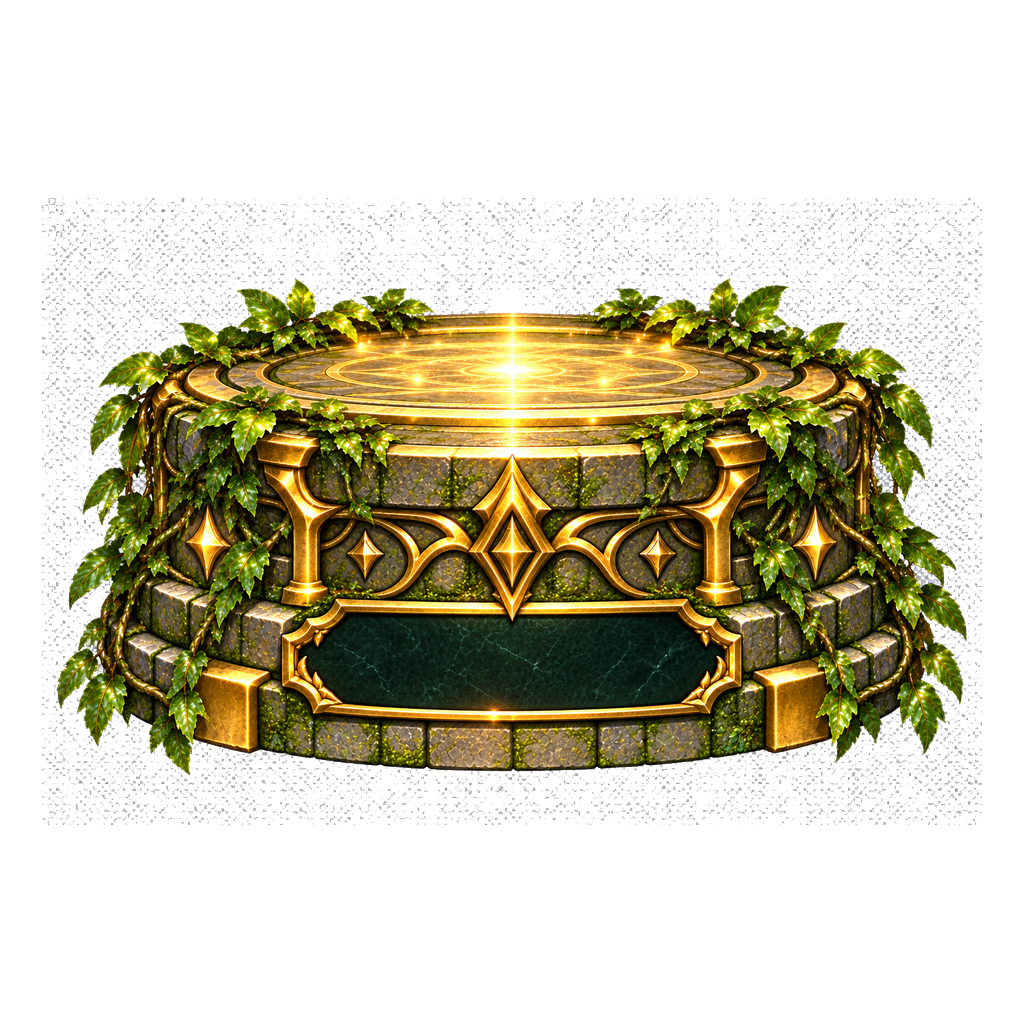
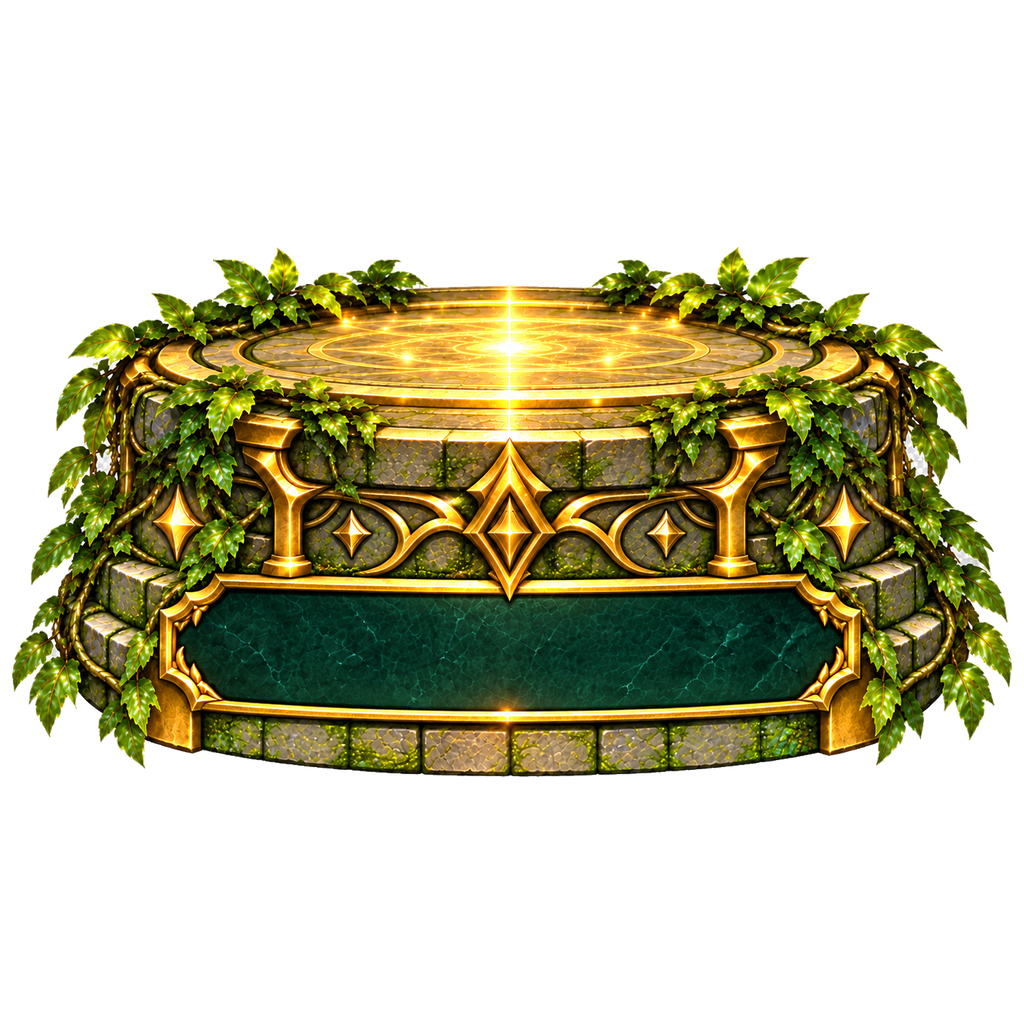
iPhone図鑑とエンブレム表示調整

diff --git a/screens/catalog.js b/screens/catalog.js
@@ -2915,50 +2915,46 @@ width:32%;
     background:#8a8a8a;
 }
 
+/* エンブレム本体を少し小さくする */
+.emblem-sanctuary-image{
+    width:85% !important;
+    height:85% !important;
+    object-fit:contain !important;
 
-        @media(prefers-color-scheme:dark){
+    position:absolute !important;
+    left:50% !important;
+    top:50% !important;
+    transform:translate(-50%, -50%) !important;
+}
+    
+/* iPhone表示・長押し対策 */
 
-            .encyclopedia-title-icon,
-            .encyclopedia-count,
-            .encyclopedia-progress-area,
-            .encyclopedia-search-box,
-            .encyclopedia-filter,
-            .catalog-card{
-                background:#222722;
-            }
+.encyclopedia-title-icon,
+.encyclopedia-count,
+.encyclopedia-progress-area,
+.encyclopedia-search-box,
+.encyclopedia-filter{
+    background:#ffffff !important;
+    color:#222222 !important;
+}
 
-            .catalog-detail-panel{
-                background:#252525;
-                color:#f4f4f4;
-            }
+.encyclopedia-search{
+    color:#222222 !important;
+    background:#ffffff !important;
+}
 
-            .catalog-detail-close{
-                background:#414141;
-                color:#ffffff;
-            }
+.encyclopedia-search::placeholder{
+    color:#777777 !important;
+}
 
-            .catalog-detail-description{
-                background:#343434;
-            }
+.catalog-card img,
+.catalog-detail-panel img,
 
-            .catalog-detail-info{
-                border-color:#444444;
-            }
-
-            .catalog-detail-row{
-                border-color:#444444;
-            }
-
-            .catalog-detail-tag{
-                background:#35513c;
-            }
-
-            .unknown-detail-hint{
-                background:#3b3b3b;
-            }
-
-        }
-
+.emblem-sanctuary img{
+    -webkit-touch-callout:none;
+    -webkit-user-select:none;
+    user-select:none;
+}
     `;
 
     document.head.appendChild(style);

diff --git a/styles/cards.css b/styles/cards.css
@@ -1947,9 +1947,9 @@ background-repeat: no-repeat;
 .emblem-sanctuary-pedestal-image {
     position: absolute;
     left: 50%;
-    bottom: -90px;
+    bottom: -60px;
     transform: translateX(-50%);
-    width: 150px;
+    width: 100px;
     height: auto;
     object-fit: contain;
     z-index: 1;

diff --git a/styles.css b/styles.css
@@ -4637,7 +4637,7 @@ body:has(.spiria-evolution-movie) {
     left: 0;
     right: 0;
     bottom: auto !important;
-    top: 183px !important;
+    top: 166px !important;
 
     width: 100%;
     text-align: center;
